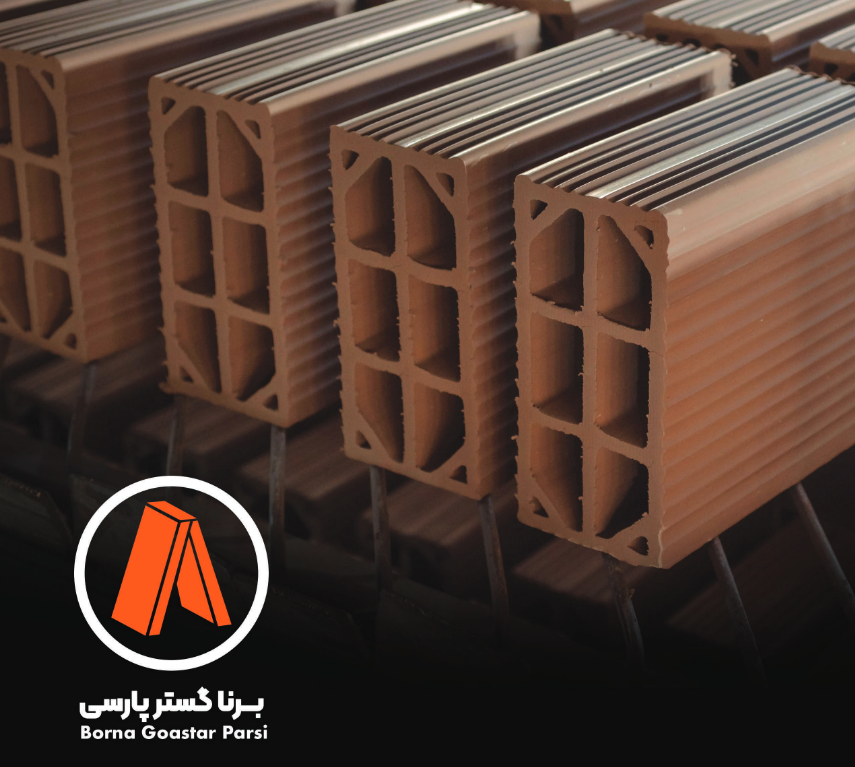
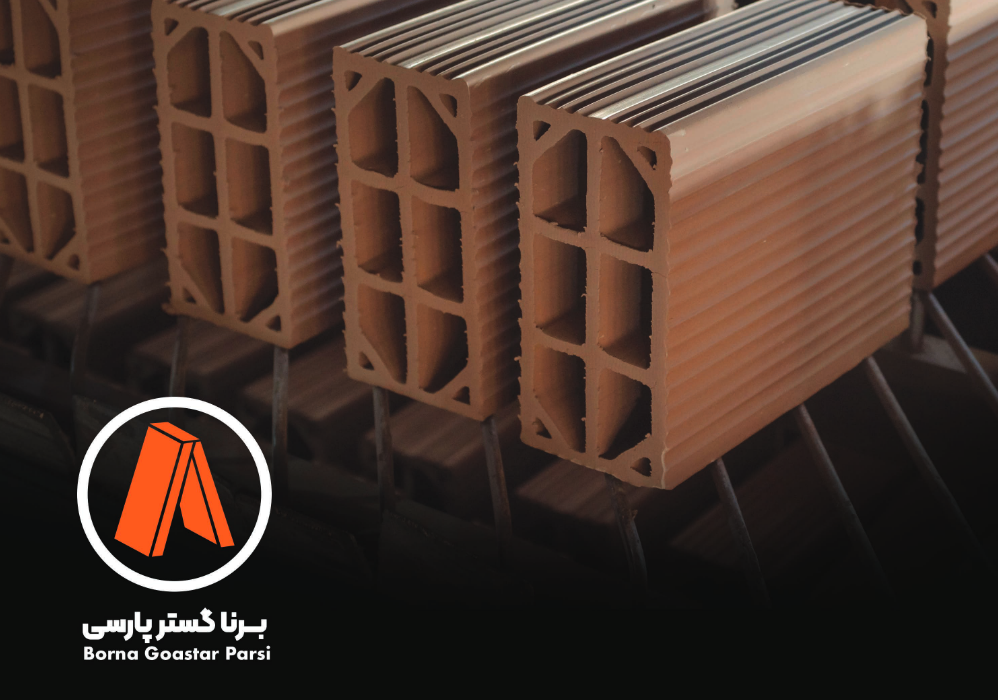
Change service section pictures in index page

diff --git a/resources/views/index.blade.php b/resources/views/index.blade.php
@@ -7,7 +7,7 @@
     {{ config('app.name', 'خانه') }}
 </title>
 
-<div class="body-bg-layer" style="background-color: #1a1a23;"></div>
+<div class="body-bg-layer" style="background-color: #15181b;"></div>
  <!-- Banner Two -->
             <section class="banner-two" id="to-top-div">
                 <div class="auto-container">
@@ -115,7 +115,7 @@
                                         <h5>اخبار و رویدادها</h5>
                                         <div class="text">
                                             <p>
-                                            آخرین اخبار و رویدادهای صنعت آجر را از طریق برناگستر دنبال کنید.  و از تازهترین پروژهها، تحولات و دستاوردهای تیم ما در این حوزه باخبر شوید.
+                                            آخرین اخبار و رویدادهای صنعت آجر را از طریق برناگستر دنبال کنید.و از تازهترین پروژهها، تحولات و دستاوردهای تیم ما در این حوزه باخبر شوید.
                                             </p>
                                         </div>
                                         <div class="link-box"><a href="/مقالات"><span class="far fa-angle-right"></span></a></div>
@@ -143,7 +143,7 @@
                                     <div class="inner">
                                     <div class="icon-box"><span class="fa-sharp fa-regular fa-trowel-bricks"></span></div>
                                         <h5>شبیه ساز</h5>
-                                        <div class="text">این دستگاه ابزاری است برای پیشبینی مدت زمان  خشک شدن انواع آجر و سفال با توجه به دما .رطوبت.و سرعت هوا</div>
+                                        <div class="text">این دستگاه ابزاری است برای پیشبینی مدت زمان  خشک شدن انواع آجر و سفال با توجه به دما، رطوبت و سرعت هوا</div>
                                         <div class="link-box"><a href="/شبیه-ساز"><span class="far fa-angle-right"></span></a></div>
                                     </div>
                                 </div>
@@ -221,7 +221,7 @@
                                     <div class="tab" id="tab-3">
                                         <div class="row clearfix mainTabContainer">
                                             <div class="image-col col-lg-5 col-md-5 col-sm-6">
-                                                <div class="image mainAboutUs"><img src="/assets/images/main-slider/pokht.jpg" alt=""></div>
+                                                <div class="image mainAboutUs"><img src="/assets/images/main-slider/indexconsultation.png" alt=""></div>
                                             </div>
                                             <div class="text-col col-lg-7 col-md-7 col-sm-6">
                                                 <div class="text purposeContent">
